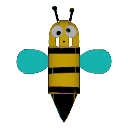
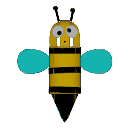
Update Thumbnails & Thumbnail Generation

diff --git a/Editor/EditorButtons.cs b/Editor/EditorButtons.cs
@@ -42,8 +42,20 @@ internal static class EditorButtons
         sceneModel.Rotation = Rotation.From( 0, 180, 0 );
         if ( model.Name.Contains( "corner" ) ) sceneModel.Rotation *= new Angles( 0, 0, 90 );
         else if ( !model.Name.Contains( "caterpillar" ) ) sceneModel.Rotation *= new Angles( 0, 90, 0 );
+
         if ( fileName.Contains( "ladybug" ) ) sceneCamera.OrthoHeight = 42f;
-        else if ( fileName.Contains( "bumblebee" ) ) sceneCamera.OrthoHeight = 82f;
+        else if ( fileName.Contains( "bumblebee" ) )
+        {
+            sceneCamera.OrthoHeight = 82f;
+            sceneCamera.Rotation = Rotation.From( 0, 180, 0 );
+            sceneLight.Rotation = Rotation.From( 0, 180, 0 );
+        }
+        else if ( fileName.Contains( "dragonfly" ) )
+        {
+            sceneCamera.OrthoHeight = 82f;
+            sceneCamera.Rotation = Rotation.From( 0, 180, 0 );
+            sceneLight.Rotation = Rotation.From( 0, 180, 0 );
+        }
 
         var bounds = sceneModel.Bounds;
         var center = bounds.Center;
